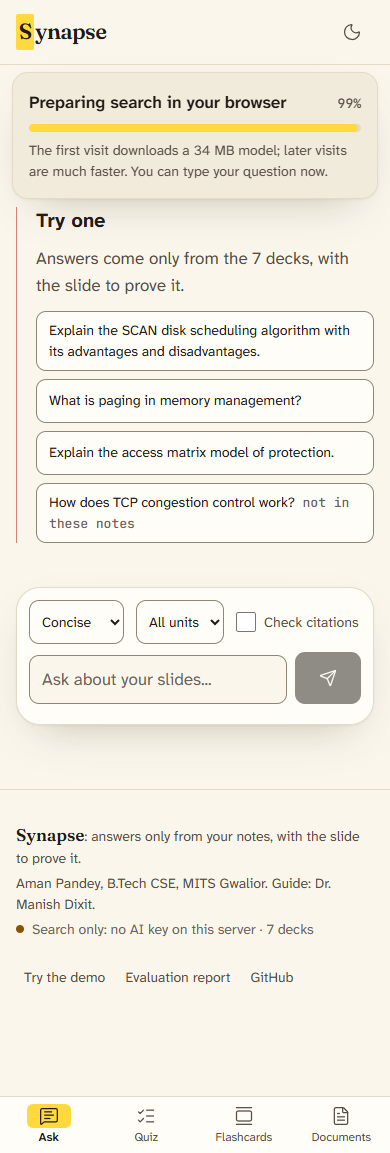
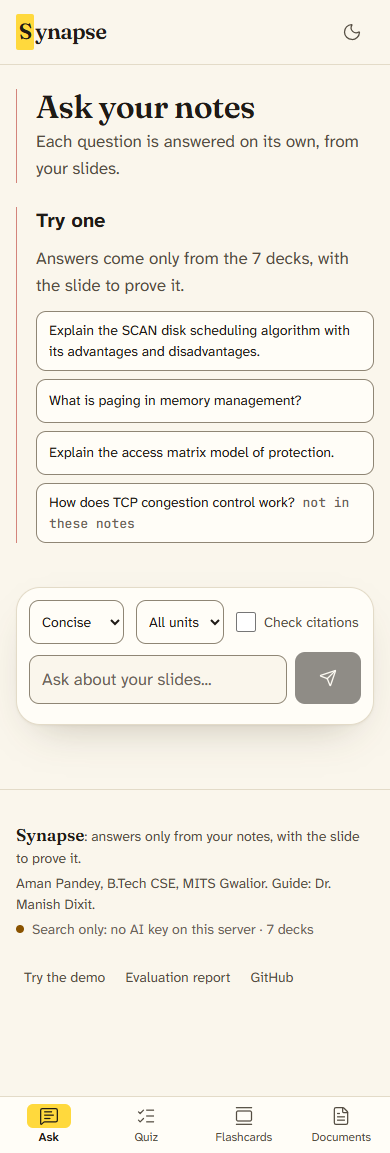
docs(ui): results of the redesign, and keep the streaming caret inline
RESULTS.md holds before and after per page, all check results, what is left
undone and the merge steps. The caret now follows the streaming text instead of
dropping to its own line. Adds the real-check screenshots and final images.

Changed region(s): [[0.0308, 0.0624, 0.9231, 0.1873]]

diff --git a/web/app/globals.css b/web/app/globals.css
@@ -222,7 +222,8 @@
   }
 
   /* Answer text arriving: a blinking caret. Off under reduced motion (see the rule at the end). */
-  .caret::after {
+  .caret > p:last-child::after,
+  .caret > ul:last-child > li:last-child::after {
     content: "";
     display: inline-block;
     width: 0.5em;
@@ -404,7 +405,8 @@
     scroll-behavior: auto !important;
   }
 
-  .caret::after {
+  .caret > p:last-child::after,
+  .caret > ul:last-child > li:last-child::after {
     animation: none;
   }
 }

diff --git a/docs/ui/RESULTS.md b/docs/ui/RESULTS.md
@@ -1,0 +1,72 @@
+# Synapse UI redesign: results (Phase 3)
+
+Branch `ui-redesign`, not merged. `main` and the live site are unchanged until you merge. Plan: `UI_PLAN.md`.
+
+## Before and after
+
+| Page | Before | After | What changed |
+|---|---|---|---|
+| Landing | [1440](before/landing-1440-light.png), [390](before/landing-390-light.png) | [1440](after/landing-1440-light.png), [dark](after/landing-1440-dark.png), [390](after/landing-390-light.png) | Headline and main action; real recorded answer with working citations; contents page; unequal feature tiles with real output; marksheet; title page |
+| Ask | [empty](before/ask-1440-light.png), [answer](before/state-ask-answer-1440-light.png), [refusal](before/state-ask-not-in-notes-1440-light.png) | [empty](after/state-ask-empty-1440-light.png), [real answer](after/state-ask-real-answer-1440-light.png), [refusal](after/state-ask-not-in-notes-1440-dark.png), [phone sheet](after/state-ask-sheet-390-dark.png) | Slide beside the answer; real download percent; starter questions; exam-mark modes; proper refusal state; friendly errors; bullets and bold in long answers |
+| Quiz | [setup](before/quiz-1440-light.png), [questions](before/state-quiz-feedback-1440-light.png) | [question](after/state-quiz-feedback-1440-light.png), [score](after/state-quiz-score-1440-dark.png), [phone](after/state-quiz-feedback-390-dark.png) | One question at a time; progress bar; tick or cross as well as colour; slide beside the feedback; marked score; retry with no AI call; keyboard |
+| Flashcards | [front](before/state-flashcards-front-1440-light.png), [back](before/state-flashcards-back-1440-light.png) | [front](after/state-flashcards-front-1440-light.png), [back](after/state-flashcards-back-390-light.png), [empty](after/state-flashcards-empty-1440-dark.png) | 3D flip; real next-interval labels; due-today count; Space and 1-4; note that cards stay in this browser |
+| Documents | [1440](before/documents-1440-light.png), [390](before/documents-390-light.png) | [1440](after/documents-1440-light.png), [dark](after/documents-1440-dark.png), [390](after/documents-390-dark.png) | Deck cards with real thumbnails instead of a sideways-scrolling table; plain words for repeated and flagged pages; Ask this unit |
+
+The app now has a designed dark theme, a phone tab bar and a footer on every page.
+
+## Checks on the final code
+
+| Check | Result |
+|---|---|
+| `npm run lint`, `npm run build` | Pass |
+| Ask, recorded answers | 44 of 44 |
+| Quiz and Flashcards, recorded answers | 72 of 72 |
+| Fresh browser: real progress, self-check, no stale banner | 4 of 4; ready in 19-28 s, second visit about 1.5 s |
+| Browser self-check | Top 5 match the Python model |
+| axe-core: 50 states, 2 widths, 2 themes | No violations (`captured/audit-after.json`) |
+| Real Groq check | Streaming, cited answer, real slide, quiz and flashcard all worked |
+
+Quiz, Flashcards and axe last ran just before a one-line CSS change to the streaming caret; lint, build and Ask ran after it.
+
+**Groq use:** 3 requests in Phase 3. The first attempt stopped early because of a fault in my test; the real refusal was skipped to stay within the 3 planned.
+
+### Lighthouse: local production build, not the Preview
+
+The Preview sits behind a Vercel login, so as agreed this ran on `next start`. A local network flatters LCP, so treat those numbers as a best case. Raw results: `captured/lighthouse-local.json`.
+
+| Page | Performance | Accessibility | Best practices | LCP | Layout shift |
+|---|---|---|---|---|---|
+| Landing, phone | 100 | 100 | 100 | 0.8 s | 0 |
+| Landing, desktop | 100 | 100 | 100 | 0.2 s | 0 |
+| Ask, phone | **70** | 100 | **81** | 0.8 s | 0 |
+| Quiz, phone | 99 | 100 | 100 | 0.8 s | 0 |
+| Flashcards, phone | 94 | 100 | 100 | 2.8 s | 0.065 |
+| Documents, phone | 91 | 100 | 100 | 3.4 s | 0 |
+
+Landing is within budget: JS 157 KB (budget 185), CSS 8 KB (budget 20).
+
+**Ask's two scores below 90 were not fixed, because both come from the search model:**
+- Performance 70: the model loads on the page's main thread, blocking for about 4.5 s under Lighthouse's phone throttling. Moving it to a worker would change `web/lib/demo/client.ts`, which is outside presentation.
+- Best practices 81: a deprecated API inside the third-party model runtime's worker.
+
+## Left undone
+
+- Lighthouse on the Vercel Preview itself (behind the login).
+- A real refusal on the new UI. Its display was tested with a real recorded refusal, and the logic did not change.
+- `prefers-reduced-motion` and scroll reveals were checked by automated runs only, not by eye in a real scroll.
+
+## Known, not changed
+
+- **A generated quiz can be wrong.** In the real check, a question on Unit 1 Part 1 p.43 marked "System call" as correct, while the slide says the transition is "context switching". This is the model, not the UI; the report measures it at 24 of 25 supported.
+- **SM-2 labels look alike:** a new card shows 1 day on all four buttons, later Hard, Good and Easy match. This is correct SM-2.
+- **Slashed zero:** the approved body font draws zero with a slash and has no plain alternative.
+- **File name typo:** "Schduling" is in the source PDF's name, and the data is protected.
+- **`docs/evaluation-report.md`** is still titled "(draft)".
+
+## Merge steps
+
+1. **Check the Preview while logged in to Vercel.** Open <https://corner-stone-git-ui-redesign-maverick-1081.vercel.app/api/demo/health>. It should show `"llm_key_present":true`. Then look through the pages. Asking questions there may use your quota.
+2. **Open the pull request:** <https://github.com/amanpandey-git/corner_stone/compare/main...ui-redesign>, press **Create pull request**, wait for the checks, then **Merge pull request**.
+3. **Vercel deploys `main`** by itself. Wait for it to show **Ready**, then open <https://corner-stone-alpha.vercel.app>.
+4. **On the evaluation laptop,** open `/ask` once beforehand, so the 34 MB model is already in the browser.
+5. **If anything is wrong after merging:** in Vercel, open **Deployments**, choose the previous one, and use **Instant Rollback**. The code can then be reverted on GitHub with the **Revert** button on the pull request.

diff --git a/NOTES.md b/NOTES.md
@@ -91,3 +91,8 @@ Format: `date | what | why / root cause | fix`
 2026-11-03 | Finding: long answers contain Markdown (bold, bullets) that the old page showed as raw symbols | seen in eval/results/answer_spotcheck_test_5mark.md | CitedText renders it for display; no words change.
 2026-11-03 | Decision: UI plan details changed while building | hero answer arrives sentence by sentence (CSS only) instead of typing; first cited slide opens by itself beside the answer on wide screens; reserved margin column so opening a slide never moves the answer; explainer tile added on Documents | all presentation only.
 2026-11-03 | Bug (tooling): TaskStop on `npx next start` left the child server running | npx spawns a separate node process | start with `node node_modules/next/dist/bin/next start`, which TaskStop does stop (checked on port 3102).
+2026-11-03 | Bug: scroll reveal faded text, so Lighthouse measured contrast 1.69 to 2.57 on text part-way into view; axe missed it because it ran with reduced motion | the reveal animated opacity across the section | reveal now moves only, never fades.
+2026-11-03 | Bug: Ask layout shift 0.109 | the download banner was in the page flow and pushed the starter questions when it went away | the banner floats; layout shift 0.
+2026-11-03 | Finding: Ask on a phone scores performance 70, best practices 81 | the model loads on the main thread (about 4.5 s blocking under throttling), and a deprecated API sits in the third-party ONNX runtime worker | not fixed: a Web Worker would change web/lib/demo/client.ts, outside presentation; reported to the user.
+2026-11-03 | Finding: real generated quiz question (Unit 1 Part 1 p.43) marked "System call" correct; the slide says the transition is "context switching" | model error, the kind section 3 of the evaluation report measures (24/25 supported) | not changed: quiz logic is protected. Worth knowing for the viva.
+2026-11-03 | Bug (tooling): the first real check stopped early, using 1 of 3 planned Groq requests | the test waited on any role="alert", and Next's hidden route announcer has that role | test now looks inside main only; the real refusal was skipped to stay within 3 requests.

diff --git a/PROGRESS.md b/PROGRESS.md
@@ -655,3 +655,23 @@ Updated: 2026-10-16. Branch stage-2, 274 tests; GitHub Actions green (pytest + n
 - Mode hints from web/public/demo/meta.json: concise 2-4 sentences, 5-mark 4-6 key points.
 ### Next atomic action
 - User: free some memory and say continue. Then: drive-ask, drive-study, shots, audit-after, Lighthouse, then the real check last.
+
+## [2026-11-03] - UI redesign: Phase 3 complete on branch ui-redesign, waiting for the user's merge
+### Done
+- P0, P1, P2 built and committed. docs/ui/RESULTS.md has before/after per page, all check results and the merge steps.
+- Fixes from the final checks: copy that claimed more than the evidence, scroll reveal no longer fades text, model banner floats (Ask layout shift 0), caret stays inline.
+### Verified on the final code
+- Lint and build pass. Ask 44/44, Quiz + Flashcards 72/72, fresh-browser progress 4/4, self-check top 5 matches, axe no violations across 50 states.
+- Real Groq check: streaming, cited answer, real slide, quiz, flashcard all worked. 3 Groq requests in Phase 3 (the first attempt stopped early through a fault in the test).
+- Lighthouse on a local production build: landing 100/100/100 on phone and desktop. Ask on a phone: performance 70, best practices 81, both from the search model.
+- Quiz, Flashcards and axe last ran just before the one-line caret CSS change; lint, build and Ask ran after it.
+### In progress / partial
+- None.
+### Not started
+- Merge to main: the user decides. Lighthouse on the Preview itself (behind the Vercel login).
+### Known issues / TODO
+- Ask's main-thread model load blocks for about 4.5 s under phone throttling; fixing it means moving the model to a worker, a change to web/lib/demo/client.ts.
+- Real generated quiz question on Unit 1 Part 1 p.43 marked "System call" correct where the slide says "context switching": a model error, see evaluation report section 3.
+- Evaluation report title still says "(draft)".
+### Next atomic action
+- User: follow the merge steps in docs/ui/RESULTS.md.
